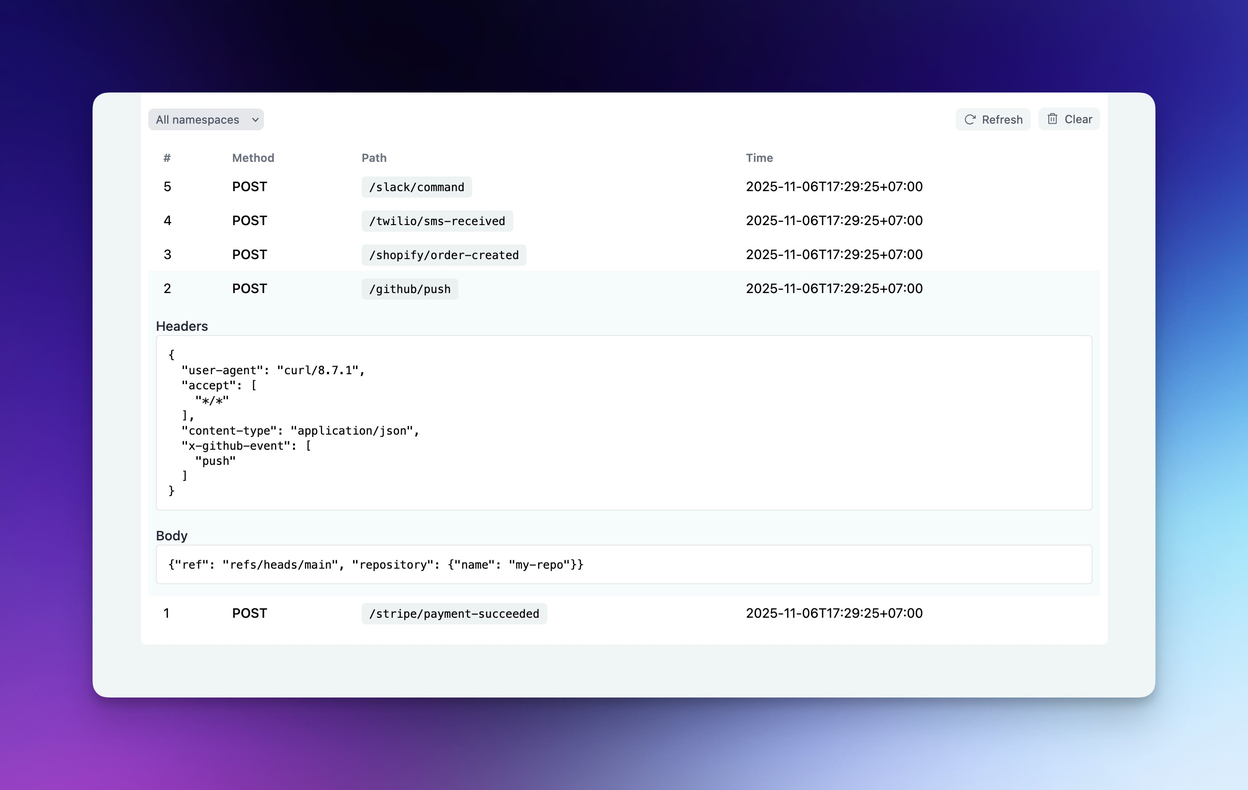
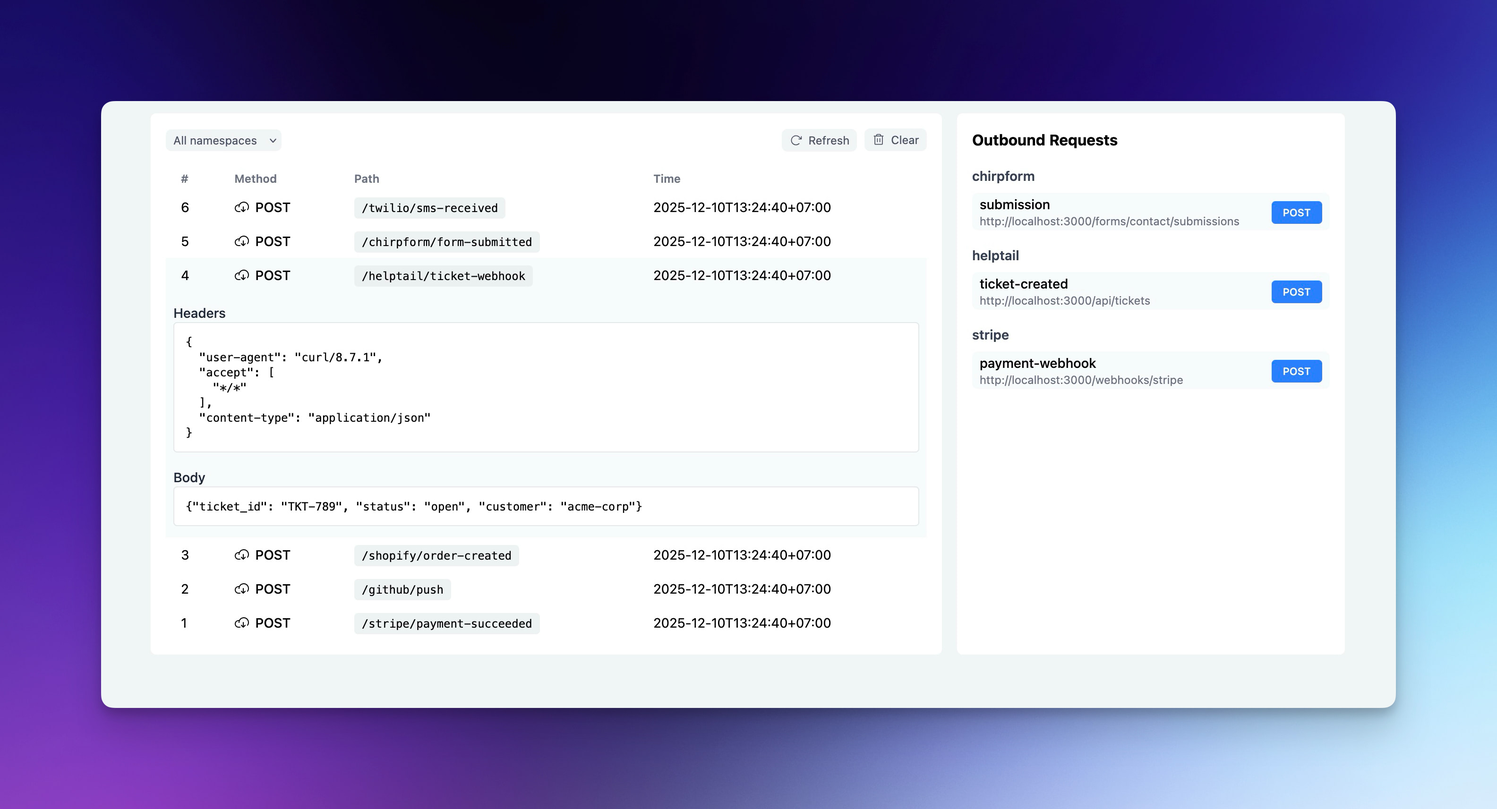
Add outbound request support with JSON file definitions (#1)
Users can now send HTTP requests by creating JSON files in .requestkit/requests/. Files define method, URL, headers, and body. Requests are sent via the UI and both request/response are captured and displayed.

diff --git a/lib/requestkit/templates/index.css b/lib/requestkit/templates/index.css
@@ -1,2 +1,2 @@
 /*! tailwindcss v4.1.16 | MIT License | https://tailwindcss.com */
-@layer properties{@supports (((-webkit-hyphens:none)) and (not (margin-trim:inline))) or ((-moz-orient:inline) and (not (color:rgb(from red r g b)))){*,:before,:after,::backdrop{--tw-border-style:solid;--tw-font-weight:initial;--tw-blur:initial;--tw-brightness:initial;--tw-contrast:initial;--tw-grayscale:initial;--tw-hue-rotate:initial;--tw-invert:initial;--tw-opacity:initial;--tw-saturate:initial;--tw-sepia:initial;--tw-drop-shadow:initial;--tw-drop-shadow-color:initial;--tw-drop-shadow-alpha:100%;--tw-drop-shadow-size:initial}}}@layer theme{:root,:host{--font-sans:ui-sans-serif,system-ui,sans-serif,"Apple Color Emoji","Segoe UI Emoji","Segoe UI Symbol","Noto Color Emoji";--font-mono:ui-monospace,SFMono-Regular,Menlo,Monaco,Consolas,"Liberation Mono","Courier New",monospace;--color-red-200:oklch(88.5% .062 18.334);--color-red-700:oklch(50.5% .213 27.518);--color-gray-50:oklch(98.5% .002 247.839);--color-gray-100:oklch(96.7% .003 264.542);--color-gray-200:oklch(92.8% .006 264.531);--color-gray-500:oklch(55.1% .027 264.364);--color-gray-600:oklch(44.6% .03 256.802);--color-gray-800:oklch(27.8% .033 256.848);--color-white:#fff;--spacing:.25rem;--container-5xl:64rem;--text-xs:.75rem;--text-xs--line-height:calc(1/.75);--text-sm:.875rem;--text-sm--line-height:calc(1.25/.875);--font-weight-normal:400;--font-weight-medium:500;--font-weight-semibold:600;--radius-sm:.25rem;--radius-md:.375rem;--default-transition-duration:.15s;--default-transition-timing-function:cubic-bezier(.4,0,.2,1);--default-font-family:var(--font-sans);--default-mono-font-family:var(--font-mono)}}@layer base{*,:after,:before,::backdrop{box-sizing:border-box;border:0 solid;margin:0;padding:0}::file-selector-button{box-sizing:border-box;border:0 solid;margin:0;padding:0}html,:host{-webkit-text-size-adjust:100%;tab-size:4;line-height:1.5;font-family:var(--default-font-family,ui-sans-serif,system-ui,sans-serif,"Apple Color Emoji","Segoe UI Emoji","Segoe UI Symbol","Noto Color Emoji");font-feature-settings:var(--default-font-feature-settings,normal);font-variation-settings:var(--default-font-variation-settings,normal);-webkit-tap-highlight-color:transparent}hr{height:0;color:inherit;border-top-width:1px}abbr:where([title]){-webkit-text-decoration:underline dotted;text-decoration:underline dotted}h1,h2,h3,h4,h5,h6{font-size:inherit;font-weight:inherit}a{color:inherit;-webkit-text-decoration:inherit;-webkit-text-decoration:inherit;-webkit-text-decoration:inherit;text-decoration:inherit}b,strong{font-weight:bolder}code,kbd,samp,pre{font-family:var(--default-mono-font-family,ui-monospace,SFMono-Regular,Menlo,Monaco,Consolas,"Liberation Mono","Courier New",monospace);font-feature-settings:var(--default-mono-font-feature-settings,normal);font-variation-settings:var(--default-mono-font-variation-settings,normal);font-size:1em}small{font-size:80%}sub,sup{vertical-align:baseline;font-size:75%;line-height:0;position:relative}sub{bottom:-.25em}sup{top:-.5em}table{text-indent:0;border-color:inherit;border-collapse:collapse}:-moz-focusring{outline:auto}progress{vertical-align:baseline}summary{display:list-item}ol,ul,menu{list-style:none}img,svg,video,canvas,audio,iframe,embed,object{vertical-align:middle;display:block}img,video{max-width:100%;height:auto}button,input,select,optgroup,textarea{font:inherit;font-feature-settings:inherit;font-variation-settings:inherit;letter-spacing:inherit;color:inherit;opacity:1;background-color:#0000;border-radius:0}::file-selector-button{font:inherit;font-feature-settings:inherit;font-variation-settings:inherit;letter-spacing:inherit;color:inherit;opacity:1;background-color:#0000;border-radius:0}:where(select:is([multiple],[size])) optgroup{font-weight:bolder}:where(select:is([multiple],[size])) optgroup option{padding-inline-start:20px}::file-selector-button{margin-inline-end:4px}::placeholder{opacity:1}@supports (not ((-webkit-appearance:-apple-pay-button))) or (contain-intrinsic-size:1px){::placeholder{color:currentColor}@supports (color:color-mix(in lab, red, red)){::placeholder{color:color-mix(in oklab,currentcolor 50%,transparent)}}}textarea{resize:vertical}::-webkit-search-decoration{-webkit-appearance:none}::-webkit-date-and-time-value{min-height:1lh;text-align:inherit}::-webkit-datetime-edit{display:inline-flex}::-webkit-datetime-edit-fields-wrapper{padding:0}::-webkit-datetime-edit{padding-block:0}::-webkit-datetime-edit-year-field{padding-block:0}::-webkit-datetime-edit-month-field{padding-block:0}::-webkit-datetime-edit-day-field{padding-block:0}::-webkit-datetime-edit-hour-field{padding-block:0}::-webkit-datetime-edit-minute-field{padding-block:0}::-webkit-datetime-edit-second-field{padding-block:0}::-webkit-datetime-edit-millisecond-field{padding-block:0}::-webkit-datetime-edit-meridiem-field{padding-block:0}::-webkit-calendar-picker-indicator{line-height:1}:-moz-ui-invalid{box-shadow:none}button,input:where([type=button],[type=reset],[type=submit]){appearance:button}::file-selector-button{appearance:button}::-webkit-inner-spin-button{height:auto}::-webkit-outer-spin-button{height:auto}[hidden]:where(:not([hidden=until-found])){display:none!important}}@layer components;@layer utilities{.mx-auto{margin-inline:auto}.mt-3{margin-top:calc(var(--spacing)*3)}.mt-4{margin-top:calc(var(--spacing)*4)}.flex{display:flex}.hidden{display:none}.inline-flex{display:inline-flex}.w-full{width:100%}.max-w-5xl{max-width:var(--container-5xl)}.border-collapse{border-collapse:collapse}.cursor-pointer{cursor:pointer}.items-center{align-items:center}.justify-between{justify-content:space-between}.justify-end{justify-content:flex-end}.gap-x-1\.5{column-gap:calc(var(--spacing)*1.5)}.gap-x-2{column-gap:calc(var(--spacing)*2)}.overflow-x-auto{overflow-x:auto}.rounded-md{border-radius:var(--radius-md)}.rounded-sm{border-radius:var(--radius-sm)}.rounded-t-md{border-top-left-radius:var(--radius-md);border-top-right-radius:var(--radius-md)}.rounded-b-md{border-bottom-right-radius:var(--radius-md);border-bottom-left-radius:var(--radius-md)}.border{border-style:var(--tw-border-style);border-width:1px}.border-gray-200{border-color:var(--color-gray-200)}.bg-gray-50{background-color:var(--color-gray-50)}.bg-gray-100{background-color:var(--color-gray-100)}.bg-gray-200\/60{background-color:#e5e7eb99}@supports (color:color-mix(in lab, red, red)){.bg-gray-200\/60{background-color:color-mix(in oklab,var(--color-gray-200)60%,transparent)}}.bg-white{background-color:var(--color-white)}.p-3{padding:calc(var(--spacing)*3)}.px-2{padding-inline:calc(var(--spacing)*2)}.py-1{padding-block:calc(var(--spacing)*1)}.py-3{padding-block:calc(var(--spacing)*3)}.py-4{padding-block:calc(var(--spacing)*4)}.text-sm{font-size:var(--text-sm);line-height:var(--tw-leading,var(--text-sm--line-height))}.text-xs{font-size:var(--text-xs);line-height:var(--tw-leading,var(--text-xs--line-height))}.font-medium{--tw-font-weight:var(--font-weight-medium);font-weight:var(--font-weight-medium)}.font-normal{--tw-font-weight:var(--font-weight-normal);font-weight:var(--font-weight-normal)}.text-gray-500{color:var(--color-gray-500)}.text-gray-600{color:var(--color-gray-600)}.text-gray-800{color:var(--color-gray-800)}.filter{filter:var(--tw-blur,)var(--tw-brightness,)var(--tw-contrast,)var(--tw-grayscale,)var(--tw-hue-rotate,)var(--tw-invert,)var(--tw-saturate,)var(--tw-sepia,)var(--tw-drop-shadow,)}.transition{transition-property:color,background-color,border-color,outline-color,text-decoration-color,fill,stroke,--tw-gradient-from,--tw-gradient-via,--tw-gradient-to,opacity,box-shadow,transform,translate,scale,rotate,filter,-webkit-backdrop-filter,backdrop-filter,display,content-visibility,overlay,pointer-events;transition-timing-function:var(--tw-ease,var(--default-transition-timing-function));transition-duration:var(--tw-duration,var(--default-transition-duration))}:is(.\*\:px-4>*){padding-inline:calc(var(--spacing)*4)}:is(.\*\:py-1>*){padding-block:calc(var(--spacing)*1)}:is(.\*\:py-2>*){padding-block:calc(var(--spacing)*2)}:is(.\*\:text-left>*){text-align:left}:is(.\*\:text-sm>*){font-size:var(--text-sm);line-height:var(--tw-leading,var(--text-sm--line-height))}:is(.\*\:text-xs>*){font-size:var(--text-xs);line-height:var(--tw-leading,var(--text-xs--line-height))}:is(.\*\:font-semibold>*){--tw-font-weight:var(--font-weight-semibold);font-weight:var(--font-weight-semibold)}:is(.\*\:text-gray-500>*){color:var(--color-gray-500)}@media (hover:hover){.hover\:bg-gray-50:hover{background-color:var(--color-gray-50)}.hover\:bg-gray-200:hover{background-color:var(--color-gray-200)}.hover\:bg-red-200:hover{background-color:var(--color-red-200)}.hover\:text-red-700:hover{color:var(--color-red-700)}}.has-\[\+tr\[open\]\]\:bg-gray-50:has(+tr[open]){background-color:var(--color-gray-50)}.\[\&_svg\]\:size-3\.5 svg{width:calc(var(--spacing)*3.5);height:calc(var(--spacing)*3.5)}.\[\[open\]\]\:table-row[open]{display:table-row}}@property --tw-border-style{syntax:"*";inherits:false;initial-value:solid}@property --tw-font-weight{syntax:"*";inherits:false}@property --tw-blur{syntax:"*";inherits:false}@property --tw-brightness{syntax:"*";inherits:false}@property --tw-contrast{syntax:"*";inherits:false}@property --tw-grayscale{syntax:"*";inherits:false}@property --tw-hue-rotate{syntax:"*";inherits:false}@property --tw-invert{syntax:"*";inherits:false}@property --tw-opacity{syntax:"*";inherits:false}@property --tw-saturate{syntax:"*";inherits:false}@property --tw-sepia{syntax:"*";inherits:false}@property --tw-drop-shadow{syntax:"*";inherits:false}@property --tw-drop-shadow-color{syntax:"*";inherits:false}@property --tw-drop-shadow-alpha{syntax:"<percentage>";inherits:false;initial-value:100%}@property --tw-drop-shadow-size{syntax:"*";inherits:false}
+@layer properties{@supports (((-webkit-hyphens:none)) and (not (margin-trim:inline))) or ((-moz-orient:inline) and (not (color:rgb(from red r g b)))){*,:before,:after,::backdrop{--tw-space-y-reverse:0;--tw-border-style:solid;--tw-font-weight:initial}}}@layer theme{:root,:host{--font-sans:ui-sans-serif,system-ui,sans-serif,"Apple Color Emoji","Segoe UI Emoji","Segoe UI Symbol","Noto Color Emoji";--font-mono:ui-monospace,SFMono-Regular,Menlo,Monaco,Consolas,"Liberation Mono","Courier New",monospace;--color-red-200:oklch(88.5% .062 18.334);--color-red-500:oklch(63.7% .237 25.331);--color-red-700:oklch(50.5% .213 27.518);--color-blue-500:oklch(62.3% .214 259.815);--color-blue-600:oklch(54.6% .245 262.881);--color-gray-50:oklch(98.5% .002 247.839);--color-gray-100:oklch(96.7% .003 264.542);--color-gray-200:oklch(92.8% .006 264.531);--color-gray-500:oklch(55.1% .027 264.364);--color-gray-600:oklch(44.6% .03 256.802);--color-gray-700:oklch(37.3% .034 259.733);--color-gray-800:oklch(27.8% .033 256.848);--color-white:#fff;--spacing:.25rem;--container-7xl:80rem;--text-xs:.75rem;--text-xs--line-height:calc(1/.75);--text-sm:.875rem;--text-sm--line-height:calc(1.25/.875);--text-base:1rem;--text-base--line-height:calc(1.5/1);--font-weight-normal:400;--font-weight-medium:500;--font-weight-semibold:600;--font-weight-bold:700;--radius-sm:.25rem;--radius-md:.375rem;--default-transition-duration:.15s;--default-transition-timing-function:cubic-bezier(.4,0,.2,1);--default-font-family:var(--font-sans);--default-mono-font-family:var(--font-mono)}}@layer base{*,:after,:before,::backdrop{box-sizing:border-box;border:0 solid;margin:0;padding:0}::file-selector-button{box-sizing:border-box;border:0 solid;margin:0;padding:0}html,:host{-webkit-text-size-adjust:100%;tab-size:4;line-height:1.5;font-family:var(--default-font-family,ui-sans-serif,system-ui,sans-serif,"Apple Color Emoji","Segoe UI Emoji","Segoe UI Symbol","Noto Color Emoji");font-feature-settings:var(--default-font-feature-settings,normal);font-variation-settings:var(--default-font-variation-settings,normal);-webkit-tap-highlight-color:transparent}hr{height:0;color:inherit;border-top-width:1px}abbr:where([title]){-webkit-text-decoration:underline dotted;text-decoration:underline dotted}h1,h2,h3,h4,h5,h6{font-size:inherit;font-weight:inherit}a{color:inherit;-webkit-text-decoration:inherit;-webkit-text-decoration:inherit;-webkit-text-decoration:inherit;text-decoration:inherit}b,strong{font-weight:bolder}code,kbd,samp,pre{font-family:var(--default-mono-font-family,ui-monospace,SFMono-Regular,Menlo,Monaco,Consolas,"Liberation Mono","Courier New",monospace);font-feature-settings:var(--default-mono-font-feature-settings,normal);font-variation-settings:var(--default-mono-font-variation-settings,normal);font-size:1em}small{font-size:80%}sub,sup{vertical-align:baseline;font-size:75%;line-height:0;position:relative}sub{bottom:-.25em}sup{top:-.5em}table{text-indent:0;border-color:inherit;border-collapse:collapse}:-moz-focusring{outline:auto}progress{vertical-align:baseline}summary{display:list-item}ol,ul,menu{list-style:none}img,svg,video,canvas,audio,iframe,embed,object{vertical-align:middle;display:block}img,video{max-width:100%;height:auto}button,input,select,optgroup,textarea{font:inherit;font-feature-settings:inherit;font-variation-settings:inherit;letter-spacing:inherit;color:inherit;opacity:1;background-color:#0000;border-radius:0}::file-selector-button{font:inherit;font-feature-settings:inherit;font-variation-settings:inherit;letter-spacing:inherit;color:inherit;opacity:1;background-color:#0000;border-radius:0}:where(select:is([multiple],[size])) optgroup{font-weight:bolder}:where(select:is([multiple],[size])) optgroup option{padding-inline-start:20px}::file-selector-button{margin-inline-end:4px}::placeholder{opacity:1}@supports (not ((-webkit-appearance:-apple-pay-button))) or (contain-intrinsic-size:1px){::placeholder{color:currentColor}@supports (color:color-mix(in lab, red, red)){::placeholder{color:color-mix(in oklab,currentcolor 50%,transparent)}}}textarea{resize:vertical}::-webkit-search-decoration{-webkit-appearance:none}::-webkit-date-and-time-value{min-height:1lh;text-align:inherit}::-webkit-datetime-edit{display:inline-flex}::-webkit-datetime-edit-fields-wrapper{padding:0}::-webkit-datetime-edit{padding-block:0}::-webkit-datetime-edit-year-field{padding-block:0}::-webkit-datetime-edit-month-field{padding-block:0}::-webkit-datetime-edit-day-field{padding-block:0}::-webkit-datetime-edit-hour-field{padding-block:0}::-webkit-datetime-edit-minute-field{padding-block:0}::-webkit-datetime-edit-second-field{padding-block:0}::-webkit-datetime-edit-millisecond-field{padding-block:0}::-webkit-datetime-edit-meridiem-field{padding-block:0}::-webkit-calendar-picker-indicator{line-height:1}:-moz-ui-invalid{box-shadow:none}button,input:where([type=button],[type=reset],[type=submit]){appearance:button}::file-selector-button{appearance:button}::-webkit-inner-spin-button{height:auto}::-webkit-outer-spin-button{height:auto}[hidden]:where(:not([hidden=until-found])){display:none!important}}@layer components;@layer utilities{.col-span-12{grid-column:span 12/span 12}.mx-auto{margin-inline:auto}.mt-2{margin-top:calc(var(--spacing)*2)}.mt-3{margin-top:calc(var(--spacing)*3)}.mt-4{margin-top:calc(var(--spacing)*4)}.mb-4{margin-bottom:calc(var(--spacing)*4)}.flex{display:flex}.grid{display:grid}.hidden{display:none}.inline{display:inline}.inline-flex{display:inline-flex}.w-full{width:100%}.max-w-7xl{max-width:var(--container-7xl)}.flex-1{flex:1}.border-collapse{border-collapse:collapse}.cursor-pointer{cursor:pointer}.grid-cols-12{grid-template-columns:repeat(12,minmax(0,1fr))}.items-center{align-items:center}.justify-between{justify-content:space-between}.justify-end{justify-content:flex-end}.gap-4{gap:calc(var(--spacing)*4)}:where(.space-y-2>:not(:last-child)){--tw-space-y-reverse:0;margin-block-start:calc(calc(var(--spacing)*2)*var(--tw-space-y-reverse));margin-block-end:calc(calc(var(--spacing)*2)*calc(1 - var(--tw-space-y-reverse)))}.gap-x-1\.5{column-gap:calc(var(--spacing)*1.5)}.gap-x-2{column-gap:calc(var(--spacing)*2)}.overflow-x-auto{overflow-x:auto}.rounded-md{border-radius:var(--radius-md)}.rounded-sm{border-radius:var(--radius-sm)}.rounded-t-md{border-top-left-radius:var(--radius-md);border-top-right-radius:var(--radius-md)}.border{border-style:var(--tw-border-style);border-width:1px}.border-gray-200{border-color:var(--color-gray-200)}.bg-blue-500{background-color:var(--color-blue-500)}.bg-gray-50{background-color:var(--color-gray-50)}.bg-gray-100{background-color:var(--color-gray-100)}.bg-gray-200\/60{background-color:#e5e7eb99}@supports (color:color-mix(in lab, red, red)){.bg-gray-200\/60{background-color:color-mix(in oklab,var(--color-gray-200)60%,transparent)}}.bg-white{background-color:var(--color-white)}.p-3{padding:calc(var(--spacing)*3)}.p-4{padding:calc(var(--spacing)*4)}.px-2{padding-inline:calc(var(--spacing)*2)}.px-3{padding-inline:calc(var(--spacing)*3)}.py-0\.5{padding-block:calc(var(--spacing)*.5)}.py-1{padding-block:calc(var(--spacing)*1)}.py-3{padding-block:calc(var(--spacing)*3)}.py-4{padding-block:calc(var(--spacing)*4)}.text-base{font-size:var(--text-base);line-height:var(--tw-leading,var(--text-base--line-height))}.text-sm{font-size:var(--text-sm);line-height:var(--tw-leading,var(--text-sm--line-height))}.text-xs{font-size:var(--text-xs);line-height:var(--tw-leading,var(--text-xs--line-height))}.text-\[\.675rem\],.text-\[0\.675rem\]{font-size:.675rem}.font-bold{--tw-font-weight:var(--font-weight-bold);font-weight:var(--font-weight-bold)}.font-medium{--tw-font-weight:var(--font-weight-medium);font-weight:var(--font-weight-medium)}.font-normal{--tw-font-weight:var(--font-weight-normal);font-weight:var(--font-weight-normal)}.font-semibold{--tw-font-weight:var(--font-weight-semibold);font-weight:var(--font-weight-semibold)}.text-gray-500{color:var(--color-gray-500)}.text-gray-600{color:var(--color-gray-600)}.text-gray-700{color:var(--color-gray-700)}.text-gray-800{color:var(--color-gray-800)}.text-red-700{color:var(--color-red-700)}.text-white{color:var(--color-white)}.transition{transition-property:color,background-color,border-color,outline-color,text-decoration-color,fill,stroke,--tw-gradient-from,--tw-gradient-via,--tw-gradient-to,opacity,box-shadow,transform,translate,scale,rotate,filter,-webkit-backdrop-filter,backdrop-filter,display,content-visibility,overlay,pointer-events;transition-timing-function:var(--tw-ease,var(--default-transition-timing-function));transition-duration:var(--tw-duration,var(--default-transition-duration))}:is(.\*\:px-4>*){padding-inline:calc(var(--spacing)*4)}:is(.\*\:py-1>*){padding-block:calc(var(--spacing)*1)}:is(.\*\:py-2>*){padding-block:calc(var(--spacing)*2)}:is(.\*\:text-left>*){text-align:left}:is(.\*\:text-sm>*){font-size:var(--text-sm);line-height:var(--tw-leading,var(--text-sm--line-height))}:is(.\*\:text-xs>*){font-size:var(--text-xs);line-height:var(--tw-leading,var(--text-xs--line-height))}:is(.\*\:font-semibold>*){--tw-font-weight:var(--font-weight-semibold);font-weight:var(--font-weight-semibold)}:is(.\*\:text-gray-500>*){color:var(--color-gray-500)}@media (hover:hover){.hover\:bg-blue-600:hover{background-color:var(--color-blue-600)}.hover\:bg-gray-50:hover{background-color:var(--color-gray-50)}.hover\:bg-gray-200:hover{background-color:var(--color-gray-200)}.hover\:bg-red-200:hover{background-color:var(--color-red-200)}.hover\:text-red-700:hover{color:var(--color-red-700)}}.has-\[\+tr\[open\]\]\:bg-gray-50:has(+tr[open]){background-color:var(--color-gray-50)}@media (min-width:48rem){.md\:col-span-4{grid-column:span 4/span 4}.md\:col-span-8{grid-column:span 8/span 8}}.\[\&_svg\]\:size-3\.5 svg{width:calc(var(--spacing)*3.5);height:calc(var(--spacing)*3.5)}.\[\&_svg\]\:size-4 svg{width:calc(var(--spacing)*4);height:calc(var(--spacing)*4)}.\[\&_svg\]\:shrink-0 svg{flex-shrink:0}.\[\[open\]\]\:table-row[open]{display:table-row}}@property --tw-space-y-reverse{syntax:"*";inherits:false;initial-value:0}@property --tw-border-style{syntax:"*";inherits:false;initial-value:solid}@property --tw-font-weight{syntax:"*";inherits:false}

diff --git a/lib/requestkit/server/request.rb b/lib/requestkit/server/request.rb
@@ -2,21 +2,31 @@
 
 require "async/http/client"
 require "openssl"
+require "json" # not needed?
 
 module Requestkit
   class Server
     class Request
       class << self
-        def send(database:, namespace:)
+        def send(database:, namespace:, name:)
+          request_definition = load_request(namespace: namespace, name: name)
+
+          unless request_definition
+            return false
+          end
+
           request_data = {
-            headers: {"Content-Type" => "application/json", "User-Agent" => "Requestkit/#{Requestkit::VERSION}"},
-            body: '{"test": "data"}'
+            headers: request_definition["headers"].merge({"User-Agent" => "Requestkit/#{Requestkit::VERSION}"}),
+            body: request_definition["body"]
           }
 
-          endpoint = ssl_endpoint_for("https://httpbin.org/post")
+          url = request_definition["url"]
+          method = request_definition["method"].downcase
+
+          endpoint = ssl_endpoint_for(url)
           client = Async::HTTP::Client.new(endpoint)
 
-          response = client.post("/post", request_data[:headers], request_data[:body])
+          response = client.send(method, URI(url).path, request_data[:headers], request_data[:body])
           response_data = {
             headers: response.headers.to_h,
             body: response.body&.read || ""
@@ -26,17 +36,97 @@ module Requestkit
 
           database.store(
             namespace: namespace,
-            method: "POST",
-            path: "https://httpbin.org/post",
+            method: method.upcase,
+            path: url,
             request: request_data.to_json,
             response: response_data.to_json,
             status: response.status,
             direction: "outbound",
             timestamp: Time.now.iso8601
           )
+
+          true
+        rescue => error
+          puts "Error sending request: #{error.message}"
+
+          false
+        end
+
+        def all_saved
+          {}.tap do |requests|
+            [local_requests_dir, user_requests_dir].each do |base_dir|
+              next unless Dir.exist?(base_dir)
+
+              Dir.glob(File.join(base_dir, "*", "*.json")).each do |file_path|
+                namespace = File.basename(File.dirname(file_path))
+                name = File.basename(file_path, ".json")
+
+                begin
+                  definition = JSON.parse(File.read(file_path))
+
+                  unless definition["method"] && definition["url"]
+                    next
+                  end
+
+                  requests[namespace] ||= []
+                  requests[namespace] << {
+                    "name" => name,
+                    "method" => definition["method"],
+                    "url" => definition["url"]
+                  }
+                rescue JSON::ParserError
+                  next
+                end
+              end
+              # Dir.glob(File.join(base_dir, "*", "*.json")).each do |file_path|
+              #   namespace = File.basename(File.dirname(file_path))
+              #   name = File.basename(file_path, ".json")
+              #   definition = JSON.parse(File.read(file_path))
+
+              #   requests[namespace] ||= []
+              #   requests[namespace] << {
+              #     "name" => name,
+              #     "method" => definition["method"],
+              #     "url" => definition["url"]
+              #   }
+              # end
+            end
+          end
         end
 
         private
+
+        # def load_request(namespace:, name:)
+        #   [local_request_path(namespace, name), user_request_path(namespace, name)].each do |path|
+        #     return JSON.parse(File.read(path)) if File.exist?(path)
+        #   end
+
+        #   puts "Request file not found: #{namespace}/#{name}"
+        #   nil
+        # end
+        def load_request(namespace:, name:)
+          [local_request_path(namespace, name), user_request_path(namespace, name)].each do |path|
+            if File.exist?(path)
+              definition = JSON.parse(File.read(path))
+
+              unless definition["method"] && definition["url"]
+                puts "Invalid request file #{namespace}/#{name}: missing `method` or `url`"
+
+                return nil
+              end
+
+              return definition
+            end
+          end
+
+          puts "Request file not found: #{namespace}/#{name}"
+
+          nil
+        rescue JSON::ParserError => error
+          puts "Invalid JSON in #{namespace}/#{name}: #{error.message}"
+
+          nil
+        end
 
         def ssl_endpoint_for(url)
           endpoint = Async::HTTP::Endpoint.parse(url)
@@ -45,6 +135,14 @@ module Requestkit
 
           endpoint.with(ssl_context: ssl_context)
         end
+
+        def local_request_path(namespace, name) = File.join(local_requests_dir, namespace, "#{name}.json")
+
+        def user_request_path(namespace, name) = File.join(user_requests_dir, namespace, "#{name}.json")
+
+        def local_requests_dir = File.join(Dir.pwd, ".requestkit", "requests")
+
+        def user_requests_dir = File.join(Dir.home, ".config", "requestkit", "requests")
       end
     end
   end

diff --git a/lib/requestkit/server.rb b/lib/requestkit/server.rb
@@ -43,11 +43,18 @@ module Requestkit
       when ["/", "GET"]
         Render.html(request, @db, @config)
       when ["/send", "POST"]
-        Request.send(database: @db, namespace: "test")
+        query_parameters = Render.send(:query_params, from: request.path)
+        namespace = query_parameters["namespace"] || "test"
+        name = query_parameters["name"] || "default"
 
-        notify!
+        success = Request.send(database: @db, namespace: namespace, name: name)
 
-        Protocol::HTTP::Response[200, {"content-type" => "text/plain"}, ["Request sent!"]]
+        if success
+          notify!
+          Protocol::HTTP::Response[303, {"location" => "/"}, []]
+        else
+          Protocol::HTTP::Response[400, {"content-type" => "text/plain"}, ["Failed to send request"]]
+        end
       when ["/index.css", "GET"]
         Render.css
       when ["/clear", "POST"]

diff --git a/lib/requestkit/server/render.rb b/lib/requestkit/server/render.rb
@@ -2,6 +2,8 @@
 
 require "erb"
 
+require "requestkit/server/request"
+
 module Requestkit
   class Server
     class Render
@@ -13,6 +15,7 @@ module Requestkit
           context = {
             requests: selected_namespace ? database.by_namespace(selected_namespace) : database.all,
             namespaces: database.namespaces,
+            saved_requests: Request.all_saved,
             selected_namespace: selected_namespace
           }
 

diff --git a/README.md b/README.md
@@ -42,14 +42,14 @@ curl -X POST http://localhost:4000/stripe/webhook \
 Open `http://localhost:4000` in your browser to see all captured requests with headers and body.
 
 
-### Custom Port
+### Custom port
 
 ```bash
 requestkit --port 8080
 ```
 
 
-### Persistent Storage
+### Persistent storage
 
 By default, requests are stored in memory and cleared when you stop the server. Use file storage to persist across restarts:
 ```bash
@@ -59,7 +59,7 @@ requestkit --storage file
 Requests are saved to `~/.config/requestkit/requestkit.db`.
 
 
-### Custom Database Path
+### Custom database path
 
 ```bash
 requestkit --storage file --database-path ./my-project.db
@@ -71,14 +71,12 @@ requestkit --storage file --database-path ./my-project.db
 Create a configuration file to set defaults:
 
 **User-wide settings** (`~/.config/requestkit/config.yml`):
-
 ```yaml
 port: 5000
 storage: file
 ```
 
 **Project-specific settings** (`./.requestkit.yml`):
-
 ```yaml
 storage: memory
 default_namespace: my-rails-app
@@ -87,7 +85,7 @@ default_namespace: my-rails-app
 Configuration precedence: CLI flags > project config > user config > defaults
 
 
-### Available Options
+### Available options
 
 | Option | Description | Default |
 |--------|-------------|---------|
@@ -111,6 +109,28 @@ curl http://localhost:4000/github/push-event
 Filter by namespace in the web UI. Requests to `/` use the `default_namespace` from your config.
 
 
+## Sending requests
+
+Create JSON files to send HTTP requests and test your APIs. Requestkit loads request definitions from:
+
+1. `./.requestkit/requests/:namespace/:name.json` (project-specific)
+2. `~/.config/requestkit/requests/:namespace/name.json` (user-wide)
+
+Example: (`.requestkit/requests/api/create-user.json`):
+```json
+{
+  "method": "POST",
+  "url": "http://localhost:3000/api/users",
+
+  "headers": {
+    "Content-Type": "application/json"
+  },
+
+  "body": "{\"name\": \"John Doe\", \"email\": \"john@example.com\"}"
+}
+```
+
+
 ## Help
 
 ```bash
@@ -120,4 +140,4 @@ requestkit help
 
 ## License
 
-Perron is released under the [MIT License](https://opensource.org/licenses/MIT).
+Requestkit is released under the [MIT License](https://opensource.org/licenses/MIT).
